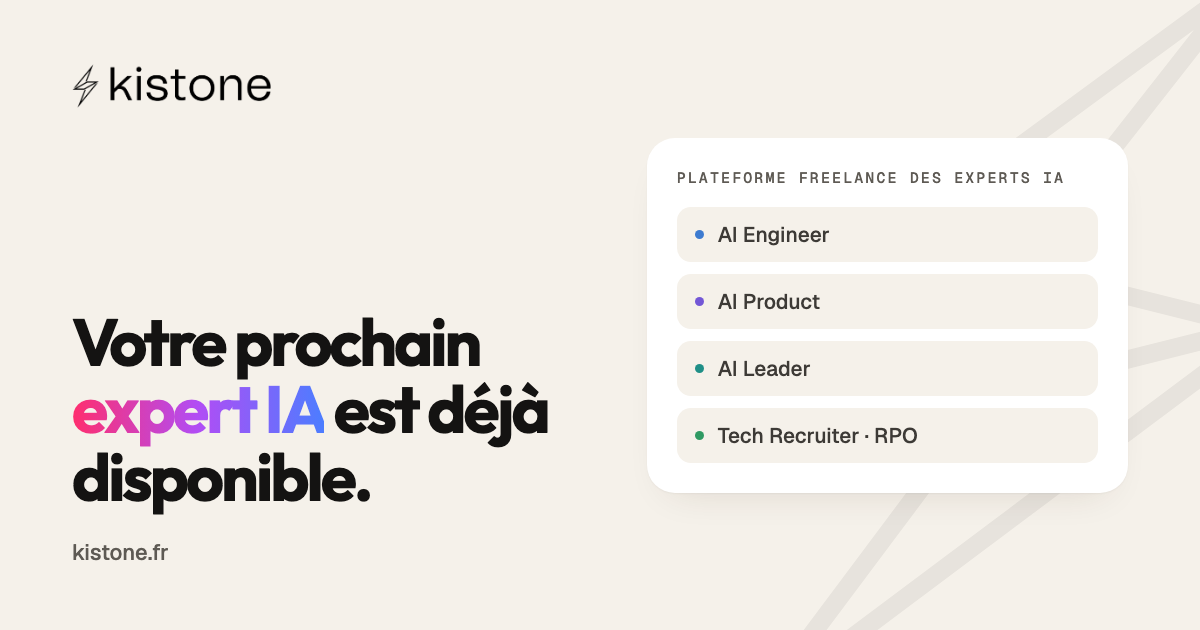
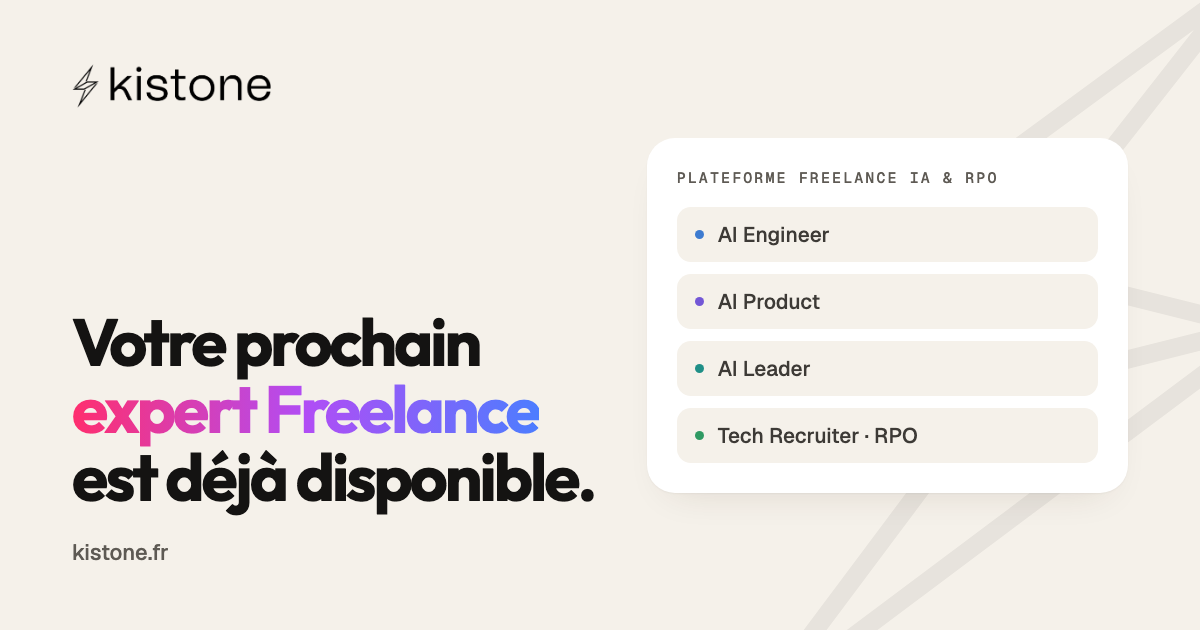
Accueil, hero : « Plateforme freelance IA & RPO » plus visible, titre « Votre prochain expert Freelance est déjà disponible. », sous-titre avec les Tech recruiters ; image de partage alignée

Changed region(s): [[0.0617, 0.6032, 0.4933, 0.8143], [0.74, 0.2714, 0.8942, 0.3016]]

diff --git a/src/components/home/Hero.tsx b/src/components/home/Hero.tsx
@@ -100,13 +100,13 @@ export default function Hero() {
         {/* Éclair géant en filigrane, qui déborde sur la droite */}
         <BoltWatermark strokeWidth={14} className="-right-40 -top-24 h-[620px] w-auto rotate-[14deg] md:-right-48 md:h-[880px]" />
         <HeroDecor />
-        <p className="ks-reveal font-ks-mono text-[11px] uppercase tracking-[0.14em] text-ks-subtle md:text-xs">{HERO.eyebrow}</p>
+        <p className="ks-reveal font-ks-mono text-[13px] font-medium uppercase tracking-[0.16em] md:text-[15px]"><span className="ks-grad-text">{HERO.eyebrow}</span></p>
         <h1 className="ks-reveal mt-5 max-w-[1100px] font-ks-display text-[46px] font-bold leading-none tracking-[-0.05em] text-ks-ink md:mt-6 md:text-[64px] md:leading-[0.98] md:tracking-[-0.048em] lg:text-[84px] xl:text-[96px]">
           {HERO.titleLead} <span className="ks-grad-text">{HERO.titleHighlight}</span>
           <br className="hidden sm:block" /> {HERO.titleEnd}
         </h1>
 
-        <p className="ks-reveal mt-5 max-w-[820px] text-[17px] leading-normal text-ks-soft md:mt-7 md:text-xl">{HERO.subtitle}</p>
+        <p className="ks-reveal mt-5 max-w-[720px] text-[17px] leading-normal text-ks-soft md:mt-7 md:text-xl">{HERO.subtitle}</p>
 
         <div className="ks-reveal mt-7 flex w-full flex-col gap-2.5 sm:w-auto sm:flex-row sm:gap-3 md:mt-10">
           <Cta href={ROUTES.recruit} variant="studio" size="lg" arrow className="h-[54px] sm:h-14">

diff --git a/src/content/home.ts b/src/content/home.ts
@@ -4,13 +4,13 @@ import type { Vertical } from "@/lib/verticals";
 // Contenus de l'accueil. Les [placeholders] restent tels quels en attendant le vrai contenu.
 
 export const HERO = {
-  // Plateforme freelance des experts IA (jamais « management de transition »)
-  eyebrow: "Plateforme freelance des experts IA",
+  // Plateforme freelance IA et RPO (jamais « management de transition »)
+  eyebrow: "Plateforme freelance IA & RPO",
   titleLead: "Votre prochain",
-  titleHighlight: "expert IA",
+  titleHighlight: "expert Freelance",
   titleEnd: "est déjà disponible.",
   subtitle:
-    "AI Engineers, AI Product et AI Leaders sélectionnés et qualifiés, en mission, en fractional ou en contract-to-hire. Un premier profil en 48 h, l'administratif géré pour vous.",
+    "AI Engineers, AI Product, AI Leaders et Tech recruiters (RPO) sélectionnés et qualifiés, en mission, en fractional ou en contract-to-hire. Un premier profil en 48 h, l’administratif géré pour vous.",
   primary: "Accéder aux profils",
   secondary: "Je suis freelance",
   note: "Profils qualifiés · Premier profil sous 48 h · Contrat, KYC et facturation inclus",
